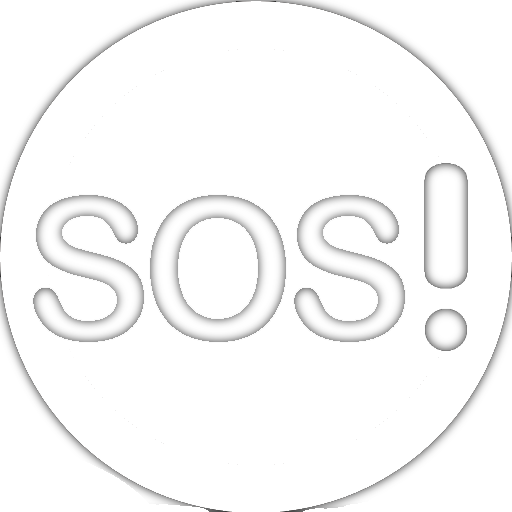
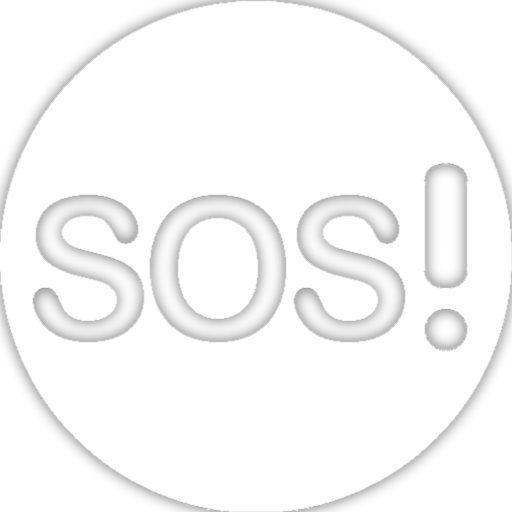
pus o sos no menu principal as well

diff --git a/Relogio/Apps/animation (Menu).js b/Relogio/Apps/animation (Menu).js
@@ -2,9 +2,9 @@ const slider = document.querySelector(".menu");
 let isDown = false;
 let startY = 0;
 let scrollTop;
-slider.scrollTop = 165;
+slider.scrollTop = 340;
 
-var anchors = [0, 165, 340];//pls set this if you are copy pasting to make a new menu
+var anchors = [0, 165, 340, 515];//pls set this if you are copy pasting to make a new menu
 
 var timer = null;
 
@@ -57,8 +57,11 @@ function updateProgress() {
     if (slider.scrollTop > 82.5 && slider.scrollTop <= 247.5) {
         document.getElementById("Progress_Circles").src = "Images/progress2.png";
     }
-    if (slider.scrollTop > 247.5) {
+    if (slider.scrollTop > 247.5 && slider.scrollTop <= 427.5) {
         document.getElementById("Progress_Circles").src = "Images/progress3.png";
+    }
+    if (slider.scrollTop > 427.5) {
+        document.getElementById("Progress_Circles").src = "Images/progress4.png";
     }
 }
 
@@ -82,3 +85,65 @@ function closest(position){
     }
     return ans;
 }
+
+//----------------------this bit handles the SOS button-----------------------------
+var timer2;
+var count = 0;
+var decrease_timer = setInterval(decrease, 10);
+var mouse_is_down = false;
+
+//this is used to decrease the count variable
+function decrease(){
+    if ((count>=1) && (mouse_is_down==false)){
+        count--;
+        console.log(count.toString()); 
+    }
+}
+
+//used for event of pressing down and incrementing count variable
+function mousedownfunction(){
+    mouse_is_down=true;
+    timer2=setInterval(function(){
+        count++;
+        console.log(count.toString());
+        if (count >= 100){
+            window.location.href = "http://google.com";
+            clearTimeout(decrease_timer);
+        }
+    },20);
+}
+document.getElementById('iconSOS').addEventListener("mousedown", mousedownfunction);
+document.getElementById('iconSOS').addEventListener("touchstart", mousedownfunction);
+
+//used for event releasing mouse and start decrementing count variable
+function mouseupfunction(){
+    if (timer2) clearInterval(timer2)
+    mouse_is_down=false;
+}
+document.getElementById('iconSOS').addEventListener("mouseleave",mouseupfunction);
+document.getElementById('iconSOS').addEventListener("mouseup", mouseupfunction);
+document.getElementById('iconSOS').addEventListener("touchend", mouseupfunction);
+
+//  take care of sosconfirm 
+var ctx2        = document.getElementById('sosconfirm').getContext('2d');
+var start2      = 4.72;
+var cw2         = ctx2.canvas.width  = 210;
+var ch2         = ctx2.canvas.height = 210;
+
+var diff2;
+var sim2 = setInterval(sosSim, 5);
+
+function sosSim() {
+
+    diff2 = ((count / 100) * Math.PI*2*10).toFixed(2);
+    ctx2.clearRect(0, 0, cw2, ch2);
+    ctx2.lineWidth   = 8;
+    ctx2.fillStyle   = "#FFFFFF";
+    ctx2.strokeStyle = "#FFFFFF";
+
+    ctx2.beginPath();
+    ctx2.arc(cw2/2, ch2/2, cw2/2-48 , start2, diff2/10+start2, false);
+    ctx2.stroke();
+}
+
+

diff --git a/Relogio/Apps/Menu.html b/Relogio/Apps/Menu.html
@@ -16,13 +16,24 @@
             <div id="Touch_Screen">
                 <div class="menu" onscroll="updateProgress()">
                     <table id="Table">
+
                         <!-- Health App -->
                         <tr>
-                            <th>
+                            <th>                
                                 <a href="Health App/Health App.html">
                                     <img class="iconApp" draggable="false" src="Images/Health Icon.png">
                                 </a>
                                 <figcaption class="appSubtitle"> Sa&uacute;de </figcaption>
+                            </th>
+                        </tr>
+
+                        <!-- SOS shortcut -->
+                        <tr>
+                            <th>
+                                <!-- SOS Confirm -->
+                                <canvas id="sosconfirm" style="pointer-events: none;"></canvas>
+                                <img class="iconApp" id="iconSOS" draggable="false" src="Images/SOS icon.png">
+                                <figcaption class="appSubtitle"> <br> </figcaption>
                             </th>
                         </tr>
 

diff --git a/Relogio/Apps/style (Menu).css b/Relogio/Apps/style (Menu).css
@@ -2,6 +2,12 @@
     overflow:  hidden;
 }
 
+#sosconfirm{
+    position: absolute; 
+    top:      163px;
+    left:     -0px;
+}
+
 #Table {
     border-collapse: separate;
     border-spacing:  53px 46px;
@@ -16,9 +22,9 @@
 
 #Progress_Circles {
     position: absolute; 
-    height:   30px;
+    height:   40px;
     top:      88px;
-    left:     193px;
+    left:     191px;
 }
 
 #Bezel {
